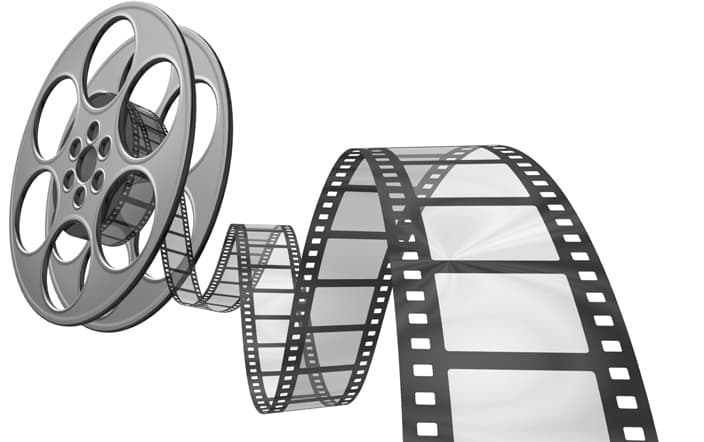
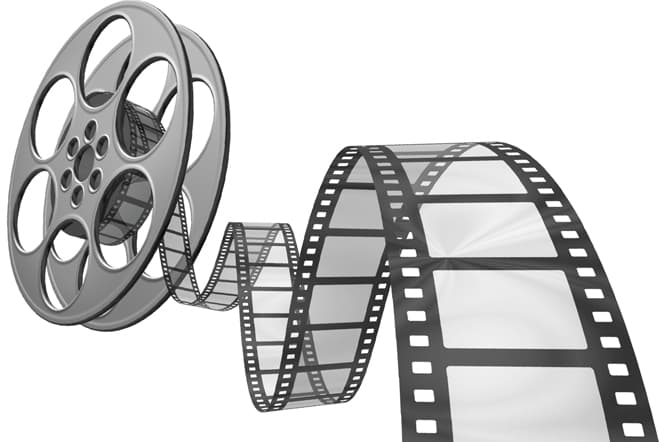
Замена картинок для пустой библиотеки

Changed region(s): [[0.0, 0.0, 1.0, 1.0]]

diff --git a/src/js/library.js b/src/js/library.js
@@ -7,6 +7,8 @@ import './theme';
 import getMoviesApi from './getMoviesApi';
 import { appendMoviesMarkup } from './moviesMarkup';
 import './footerModal';
+import './modalMovieMarkup';
+import './getfullMovieInfo';
 
 const KEY_Q = 'queueKey';
 const KEY_W = 'watchedKey';
@@ -55,9 +57,9 @@ function libraryMarkup(nameKey) {
     return;
   }
 
-  const elementUl = '<ul class="library-list"></ul>';
-  myLibrary.insertAdjacentHTML('beforeend', elementUl);
-  const labraryList = document.querySelector('.library-list');
+  // const elementUl = '';
+  // myLibrary.insertAdjacentHTML('beforeend', elementUl);
+  const labraryList = document.querySelector('.film_list');
   const markupLibraryMovies = nameKey.map(movie => {
     const movieTitle = movie.title;
     const moviePoster = `https://image.tmdb.org/t/p/w500${movie.poster_path}`;

diff --git a/src/library.html b/src/library.html
@@ -30,6 +30,7 @@
     <include src="./partials/library-main.html"></include>
     <include src="./partials/footer.html"></include>
     <include src="./partials/footer-modal.html"></include>
+    <include src="./partials/main-modal-movie.html"></include>
     <include src="./partials/back-to-top.html"></include>
     
     <script src="./js/library.js" type="module"></script>

diff --git a/src/partials/library-main.html b/src/partials/library-main.html
@@ -1,7 +1,7 @@
 <main>
   <section class="section">
     <div class="container library__container">
-
+      <ul class="film_list"></ul>
     </div>
   </section>
 </main>
